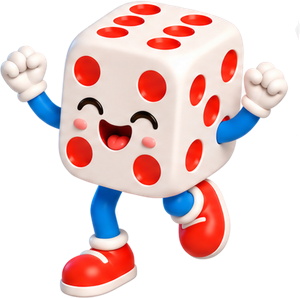
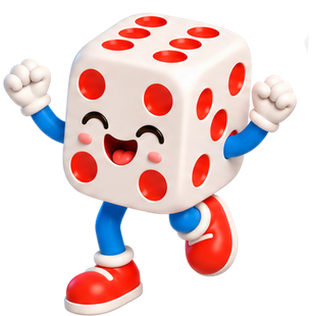
توحيد حجم النرد في كل الوضعيات وتصغيره قليلًا
Claude-Session: https://claude.ai/code/session_014a6YfnpGYraa7LRARDAxXY

Changed region(s): [[0.0, 0.0, 0.96, 0.9966], [0.24, 0.9966, 0.27, 1.0], [0.21, 0.8758, 0.24, 0.906]]

diff --git a/index.html b/index.html
@@ -193,12 +193,13 @@ select,input[type=search]{font:inherit;font-size:.9rem;padding:7px 10px;border:1
 @keyframes dance{0%,25%,50%,75%,100%{transform:translateY(0) rotate(0)}12%,62%{transform:translateY(-6px) rotate(-3deg)}37%,87%{transform:translateY(-6px) rotate(3deg)}}
 @keyframes armR{0%{transform:rotate(0)}8%{transform:rotate(-16deg)}16%{transform:rotate(10deg)}24%{transform:rotate(-16deg)}32%{transform:rotate(10deg)}40%{transform:rotate(0)}50%,88%{transform:rotate(112deg)}100%{transform:rotate(0)}}
 @keyframes armL{0%,42%{transform:rotate(0)}52%{transform:rotate(150deg)}60%{transform:rotate(136deg)}68%{transform:rotate(164deg)}76%{transform:rotate(136deg)}84%{transform:rotate(164deg)}90%{transform:rotate(150deg)}100%{transform:rotate(0)}}
-.mz2{width:100px;aspect-ratio:300/300;position:relative;flex:none;animation:dance 6s ease-in-out infinite;transform-origin:50% 100%}
+.mz2{width:var(--mz);aspect-ratio:326/316;position:relative;flex:none;animation:dance 6s ease-in-out infinite;transform-origin:50% 100%}
 .mz2 img{position:absolute;inset:0;width:100%;height:100%;object-fit:contain;object-position:bottom}
 .mz2 .f2{animation:swap 3s steps(1) infinite}.mz2 .f1{animation:swap 3s steps(1) infinite reverse}
 @keyframes swap{0%{opacity:1}50%{opacity:0}}
-.pose{width:100px;flex:none;object-fit:contain;animation:bob 2.4s ease-in-out infinite}
-.jmp{display:block;width:150px;margin:0 auto 4px;animation:hop 1s ease-in-out infinite}.jmp.sm{width:104px;margin:0;flex:none}
+.pose{width:var(--mz);flex:none;object-fit:contain;animation:bob 2.4s ease-in-out infinite}
+.jmp{display:block;width:var(--mz);margin:0 auto 4px;animation:hop 1s ease-in-out infinite}.jmp.sm{width:var(--mz);margin:0;flex:none}
+:root{--mz:108px}  /* حجم واحد لكل صور النرد (الصور على لوحة موحّدة المقياس) */
 @keyframes hop{0%,100%{transform:translateY(0) rotate(0)}50%{transform:translateY(-12px) rotate(-4deg)}}
 @media (prefers-reduced-motion:reduce){.mz,.mz img,.jmp,.mz2,.pose{animation:none!important}.mz2 .f2{opacity:0}}
 @keyframes bob{50%{transform:translateY(-5px)}}
